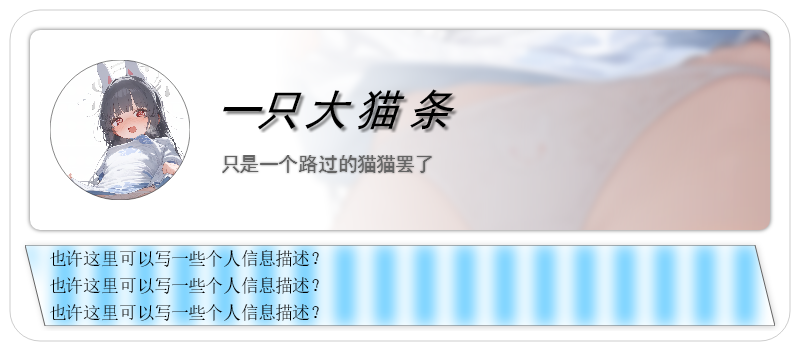
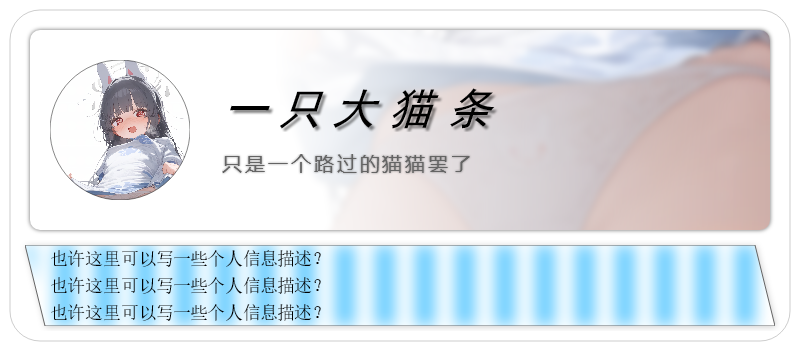
feat(WeightLayout): added a new layout: WeightLayout
WeightLayout can set the size of elements proportionally based on the weight attribute. This feature is currently used in linear layouts.

Changed region(s): [[0.0625, 0.7123, 0.4062, 0.9117], [0.2812, 0.2564, 0.625, 0.3704], [0.2812, 0.4274, 0.5938, 0.5128]]

diff --git a/src/main/kotlin/org/sereinfish/catcat/image/skiko/tools/build/extend/TextElementBuilder.kt b/src/main/kotlin/org/sereinfish/catcat/image/skiko/tools/build/extend/TextElementBuilder.kt
@@ -19,10 +19,11 @@ fun Layout.text(
     font: Font = Font(Typeface.makeFromName("黑体", FontStyle.NORMAL), 18f), // 字体,
     shadow: ShadowInfo? = null, // 文字阴影
     alignment: Alignment = Alignment.LEFT.and(Alignment.CENTER_VERTICAL), // 对齐方式
+    isTextCompact: Boolean = false,
     paint: (Paint.() -> Unit)? = null, // 画笔构建
     block: TextElement.() -> Unit = {}
 ): TextElement {
-    val textElement = TextElement(text, font = font, color = color, wordSpace = wordSpace.toFloat(), shadow = shadow, alignment = alignment, paintBuilder = paint)
+    val textElement = TextElement(text, font = font, color = color, wordSpace = wordSpace.toFloat(), shadow = shadow, alignment = alignment, paintBuilder = paint, isTextCompact = isTextCompact)
     modifier?.modifier(textElement)
     textElement.block()
 
@@ -40,10 +41,11 @@ fun Layout.text(
     wordSpace: Number = 0f, // 字间距
     shadow: ShadowInfo? = null, // 文字阴影
     alignment: Alignment = Alignment.LEFT.and(Alignment.CENTER_VERTICAL), // 对齐方式
+    isTextCompact: Boolean = false,
     paint: (Paint.() -> Unit)? = null, // 画笔构建
     block: TextElement.() -> Unit = {}
 ): TextElement {
-    return text(modifier, text, color, wordSpace, Font(typeface, fontSize.toFloat()), shadow, alignment, paint, block)
+    return text(modifier, text, color, wordSpace, Font(typeface, fontSize.toFloat()), shadow, alignment, isTextCompact, paint, block)
 }
 
 fun Layout.text(
@@ -56,8 +58,9 @@ fun Layout.text(
     wordSpace: Number = 0f, // 字间距
     shadow: ShadowInfo? = null, // 文字阴影
     alignment: Alignment = Alignment.LEFT.and(Alignment.CENTER_VERTICAL), // 对齐方式
+    isTextCompact: Boolean = false,
     paint: (Paint.() -> Unit)? = null, // 画笔构建
     block: TextElement.() -> Unit = {}
 ): TextElement {
-    return text(modifier, text, color, wordSpace, Font(Typeface.makeFromName(fontName, fontStyle), fontSize.toFloat()), shadow, alignment, paint, block)
+    return text(modifier, text, color, wordSpace, Font(Typeface.makeFromName(fontName, fontStyle), fontSize.toFloat()), shadow, alignment, isTextCompact, paint, block)
 }

diff --git a/src/main/kotlin/org/sereinfish/catcat/image/skiko/tools/element/WeightLayout.kt b/src/main/kotlin/org/sereinfish/catcat/image/skiko/tools/element/WeightLayout.kt
@@ -1,0 +1,59 @@
+package org.sereinfish.catcat.image.skiko.tools.element
+
+import org.sereinfish.catcat.image.skiko.tools.build.modifier.Modifier
+import org.sereinfish.catcat.image.skiko.tools.element.measure.ElementSizeMode
+import org.sereinfish.catcat.image.skiko.tools.element.measure.size.FloatRectSize
+import org.sereinfish.catcat.image.skiko.tools.element.measure.size.FloatSize
+import org.sereinfish.catcat.image.skiko.tools.utils.sumOf
+import org.sereinfish.catcat.image.skiko.tools.utils.sumSizeOf
+
+interface WeightLayout: Layout {
+    // 元素占比总和
+    var weightSum: Float
+        get() = attributes.getOrElse("weightSum") {
+            subElements.sumOf { it.weight }
+        }
+        set(value) = attributes.set("weightSum", value)
+
+    // 子元素能拥有的最大可分配空间
+    var weightMaxSize: FloatSize
+        get() = attributes.getOrElse("weightMaxSize") {
+            FloatSize()
+        }
+        set(value) = attributes.set("weightMaxSize", value)
+
+    /**
+     * 子元素的扩展元素
+     * 仅在子元素设置为最大大小时有效
+     * 该属性返回的值由布局提供
+     */
+    var Element.weight: Float
+        get() = this.attributes.getOrElse("weight") { 0f }
+        set(value) { this.attributes["weight"] = value }
+
+    fun <T: Element> Modifier<T>.weight(value: Number) = modifier {
+        this.weight = value.toFloat()
+    }
+
+
+    /**
+     * 参数更新
+     */
+    override fun updateElementInfo() {
+        val padding = attributes.getOrDefault("padding", FloatRectSize())
+
+        weightSum = subElements.sumOf { it.weight }
+        weightMaxSize = size().minus(padding.size()).minus(subElements.sumSizeOf {
+            val w = if (it.sizeMode.contain(ElementSizeMode.MaxWidth)) 0f else it.size.width
+            val h = if (it.sizeMode.contain(ElementSizeMode.MaxHeight)) 0f else it.size.height
+            FloatSize(w, h)
+        })
+    }
+
+    /**
+     * 计算子元素所能拥有的大小
+     */
+    fun subElementWeightSize(element: Element): FloatSize {
+        return (weightMaxSize.copy() * (element.weight / weightSum))
+    }
+}

diff --git a/src/main/kotlin/org/sereinfish/catcat/image/skiko/tools/element/elements/TextElement.kt b/src/main/kotlin/org/sereinfish/catcat/image/skiko/tools/element/elements/TextElement.kt
@@ -25,8 +25,8 @@ class TextElement(
     var color: Int = Color.BLACK, // 字体颜色
     var shadow: ShadowInfo? = null, // 文字阴影
     override var alignment: Alignment = Alignment.LEFT.and(Alignment.CENTER_VERTICAL), // 对齐方式
-    var paintBuilder: (Paint.() -> Unit)? = null // 画笔构建
-
+    var paintBuilder: (Paint.() -> Unit)? = null, // 画笔构建
+    var isTextCompact: Boolean = false // 紧凑绘制文本
 ) : AbstractElement(), AlignmentLayout {
 
     private val paint: Paint get() = buildPaint() // 获取实时构建的 Paint
@@ -56,9 +56,13 @@ class TextElement(
     private fun getTextDrawOffset(): FloatOffset {
         val rect = font.measureText(text, paint)
 
-        val offset = alignment(size.copy().minus(padding.size()), getTextDrawSize())
+        val offset = alignment(size.copy().minus(padding.size()), getTextDrawSize()).apply {
+            if (isTextCompact)
+                x -= rect.left
+            y -= rect.top
+        }
 
-        return FloatOffset(- rect.left, - rect.top).add(offset)
+        return offset
     }
 
     /**
@@ -78,19 +82,15 @@ class TextElement(
      */
     private fun getIndexCharSize(i: Int): Float {
         val rect = getWordDrawRectSize(text[i])
-        var w = rect.width
-        if (i > 0){
-            w += wordSpace + rect.left
-        }
 
-        return w
+        return rect.width + wordSpace + rect.left
     }
 
     /**
      * 获取单个字符大小
      */
     private fun getWordDrawRectSize(c: Char): Rect {
-        if (c == ' ') return font.measureText("n", paint)
+        if (c == ' ') return Rect.makeWH(font.metrics.maxCharWidth, font.metrics.height)
 
         return font.measureText("$c", paint)
     }

diff --git a/src/main/kotlin/org/sereinfish/catcat/image/skiko/tools/element/elements/layout/RowLayout.kt b/src/main/kotlin/org/sereinfish/catcat/image/skiko/tools/element/elements/layout/RowLayout.kt
@@ -2,6 +2,7 @@ package org.sereinfish.catcat.image.skiko.tools.element.elements.layout
 
 import org.sereinfish.catcat.image.skiko.tools.element.AbstractLayout
 import org.sereinfish.catcat.image.skiko.tools.element.Element
+import org.sereinfish.catcat.image.skiko.tools.element.WeightLayout
 import org.sereinfish.catcat.image.skiko.tools.element.measure.ElementSizeMode
 import org.sereinfish.catcat.image.skiko.tools.element.measure.alignment.Alignment
 import org.sereinfish.catcat.image.skiko.tools.element.measure.alignment.AlignmentLayout
@@ -12,7 +13,7 @@ import org.sereinfish.catcat.image.skiko.tools.utils.sumOrEnd
 
 class RowLayout(
     override var alignment: Alignment = Alignment.LEFT
-): AbstractLayout(), AlignmentLayout {
+): AbstractLayout(), AlignmentLayout, WeightLayout {
 
     override fun autoSize(): FloatSize {
         return FloatSize().apply {
@@ -22,6 +23,11 @@ class RowLayout(
                 height = maxOf(subSize.height, height)
             }
         }.add(padding.size())
+    }
+
+    override fun updateElementInfo() {
+        super<WeightLayout>.updateElementInfo()
+        super<AbstractLayout>.updateElementInfo()
     }
 
     override fun subElementOffset(element: Element): FloatOffset {
@@ -61,9 +67,12 @@ class RowLayout(
         if (sizeMode.contain(ElementSizeMode.AutoWidth))
             size.width = 0f
 
-
         if (sizeMode.contain(ElementSizeMode.AutoHeight))
             size.height = this.size.height - padding.size().height
+
+        if (element.sizeMode.contain(ElementSizeMode.MaxWidth) && weightSum != 0f){
+            size.width = subElementWeightSize(element).width
+        }
 
         return size.nonNegativeValue()
     }

diff --git a/src/main/kotlin/org/sereinfish/catcat/image/skiko/tools/demo/demo4/Demo4.kt b/src/main/kotlin/org/sereinfish/catcat/image/skiko/tools/demo/demo4/Demo4.kt
@@ -1,0 +1,48 @@
+package org.sereinfish.catcat.image.skiko.tools.demo.demo4
+
+import org.jetbrains.skia.Color
+import org.sereinfish.catcat.image.skiko.tools.build.buildImageColumLayout
+import org.sereinfish.catcat.image.skiko.tools.build.extend.*
+import org.sereinfish.catcat.image.skiko.tools.build.modifier.Modifier
+import org.sereinfish.catcat.image.skiko.tools.element.elements.RectElement
+import org.sereinfish.catcat.image.skiko.tools.element.elements.layout.ColumLayout
+import org.sereinfish.catcat.image.skiko.tools.element.elements.layout.RowLayout
+import org.sereinfish.catcat.image.skiko.tools.utils.random
+import org.sereinfish.catcat.image.skiko.tools.utils.save
+
+/**
+ * 比例布局
+ */
+fun main() {
+    buildImageColumLayout(
+        modifier = Modifier<ColumLayout>()
+            .size(1000, 1000)
+            .padding(50)
+            .background(Color.WHITE)
+    ) {
+
+        row(
+            Modifier<RowLayout>()
+                .maxWidth()
+                .height(200)
+        ) {
+            repeat(5){
+                rect(
+                    Modifier<RectElement>()
+                        .weight(1)
+                        .maxSize(),
+                    color = Color.random()
+                )
+            }
+        }
+
+        repeat(5){
+            rect(
+                Modifier<RectElement>()
+                    .weight(1)
+                    .maxSize(),
+                color = Color.random()
+            )
+        }
+    }.save("./src/main/kotlin/org/sereinfish/catcat/image/skiko/tools/demo/demo4/output")
+}

diff --git a/src/main/kotlin/org/sereinfish/catcat/image/skiko/tools/element/elements/layout/ColumLayout.kt b/src/main/kotlin/org/sereinfish/catcat/image/skiko/tools/element/elements/layout/ColumLayout.kt
@@ -2,6 +2,7 @@ package org.sereinfish.catcat.image.skiko.tools.element.elements.layout
 
 import org.sereinfish.catcat.image.skiko.tools.element.AbstractLayout
 import org.sereinfish.catcat.image.skiko.tools.element.Element
+import org.sereinfish.catcat.image.skiko.tools.element.WeightLayout
 import org.sereinfish.catcat.image.skiko.tools.element.measure.ElementSizeMode
 import org.sereinfish.catcat.image.skiko.tools.element.measure.alignment.Alignment
 import org.sereinfish.catcat.image.skiko.tools.element.measure.alignment.AlignmentLayout
@@ -15,7 +16,7 @@ import org.sereinfish.catcat.image.skiko.tools.utils.forEachOrEnd
  */
 class ColumLayout(
     override var alignment: Alignment = Alignment.LEFT.and(Alignment.TOP),
-): AbstractLayout(), AlignmentLayout {
+): AbstractLayout(), AlignmentLayout, WeightLayout {
 
     /**
      * 自动大小
@@ -41,6 +42,11 @@ class ColumLayout(
         }
 
         return y
+    }
+
+    override fun updateElementInfo() {
+        super<WeightLayout>.updateElementInfo()
+        super<AbstractLayout>.updateElementInfo()
     }
 
     /**
@@ -79,10 +85,13 @@ class ColumLayout(
             size.minus(it.size.copy(width = 0f))
         }
 
-
         // 当布局为自动时，不支持最大化子元素
         if (sizeMode.contain(ElementSizeMode.AutoHeight))
             size.height = 0f
+
+        if (element.sizeMode.contain(ElementSizeMode.MaxHeight) && weightSum != 0f){
+            size.height = subElementWeightSize(element).height
+        }
 
         return size.nonNegativeValue()
     }

diff --git a/src/main/kotlin/org/sereinfish/catcat/image/skiko/tools/demo/demo2/Demo2.kt b/src/main/kotlin/org/sereinfish/catcat/image/skiko/tools/demo/demo2/Demo2.kt
@@ -189,7 +189,7 @@ private fun Layout.userNameInfo(
         text = name,
         fontStyle = FontStyle.ITALIC,
         fontSize = 43,
-        wordSpace = 2,
+        wordSpace = 8,
         shadow = ShadowInfo(3, 1, Color.BLACK.colorCopy(a = 120))
     )
     colum(modifier = Modifier<ColumLayout>().size(20))
@@ -197,7 +197,9 @@ private fun Layout.userNameInfo(
         modifier = Modifier<TextElement>()
             .padding(2),
         text = desc,
+        typeface = Typeface.makeFromName("微软雅黑", FontStyle.NORMAL),
         fontSize = 20,
+        wordSpace = 3,
         color = Color.makeRGB(100, 100, 100),
         shadow = ShadowInfo(0, 1, Color.BLACK.colorCopy(a = 120))
     )

diff --git a/src/main/kotlin/org/sereinfish/catcat/image/skiko/tools/draw/effect/ElementShapeEffect.kt b/src/main/kotlin/org/sereinfish/catcat/image/skiko/tools/draw/effect/ElementShapeEffect.kt
@@ -1,15 +1,12 @@
 package org.sereinfish.catcat.image.skiko.tools.draw.effect
 
+import org.jetbrains.skia.*
 import org.sereinfish.catcat.image.skiko.tools.draw.utils.buildDraw
 import org.sereinfish.catcat.image.skiko.tools.element.AbstractElement
 import org.sereinfish.catcat.image.skiko.tools.element.measure.ShadowInfo
-import org.jetbrains.skia.*
-import org.sereinfish.catcat.image.skiko.tools.A
-import org.sereinfish.catcat.image.skiko.tools.element.Element
 import org.sereinfish.catcat.image.skiko.tools.element.measure.size.FloatRectSize
 import org.sereinfish.catcat.image.skiko.tools.utils.paint
 import org.sereinfish.catcat.image.skiko.tools.utils.saveBlock
-
 
 
 /**

diff --git a/src/main/kotlin/org/sereinfish/catcat/image/skiko/tools/Main.kt b/src/main/kotlin/org/sereinfish/catcat/image/skiko/tools/Main.kt
@@ -1,18 +1,13 @@
 package org.sereinfish.catcat.image.skiko.tools
 
-import org.sereinfish.catcat.image.skiko.tools.element.measure.offset.FloatOffset
-import org.sereinfish.catcat.image.skiko.tools.utils.offset
+import org.sereinfish.catcat.image.skiko.tools.build.buildImageColumLayout
+import org.sereinfish.catcat.image.skiko.tools.build.extend.rect
 
 
-class A {
-    val p: A get() = this
-
-    operator fun get(x: Number, y: Number): FloatOffset {
-        return offset(x, y)
-    }
-}
 fun main() {
-    val func: A.() -> FloatOffset = {
-        p[1, 2]
+    buildImageColumLayout {
+        rect {
+
+        }
     }
 }

diff --git a/src/main/kotlin/org/sereinfish/catcat/image/skiko/tools/context/Context.kt b/src/main/kotlin/org/sereinfish/catcat/image/skiko/tools/context/Context.kt
@@ -19,6 +19,14 @@ open class Context(
         context[key] = value
     }
 
+    inline fun <reified T> getOrElse(key: String, default: () -> T): T = (get(key) as? T) ?: run {
+        default().also {
+            set(key, it)
+        }
+    }
+
+    inline fun <reified T> getOrDefault(key: String, default: T): T = (get(key) as? T) ?: default
+
     inline fun <reified T> value() = ContextProperty<T>(this, T::class.java)
     inline fun <reified T> valueOrNull() = ContextPropertyOrNull<T>(this, T::class.java)
     inline fun <reified T> valueOrDefault(default: T) = ContextPropertyOrDefault(this, default, T::class.java)

diff --git a/src/main/kotlin/org/sereinfish/catcat/image/skiko/tools/utils/ColorUtils.kt b/src/main/kotlin/org/sereinfish/catcat/image/skiko/tools/utils/ColorUtils.kt
@@ -1,6 +1,7 @@
 package org.sereinfish.catcat.image.skiko.tools.utils
 
 import org.jetbrains.skia.Color
+import kotlin.random.Random
 
 fun Int.colorCopy(r: Int? = null, g: Int? = null, b: Int? = null, a: Int? = null): Int {
     val nr = r ?: Color.getR(this)
@@ -9,4 +10,12 @@ fun Int.colorCopy(r: Int? = null, g: Int? = null, b: Int? = null, a: Int? = null
     val na = a ?: Color.getA(this)
 
     return Color.makeARGB(na, nr, ng, nb)
+}
+
+fun Color.random(): Int {
+    return makeRGB(
+        Random.nextInt(0, 256),
+        Random.nextInt(0, 256),
+        Random.nextInt(0, 256)
+    )
 }

diff --git a/src/main/kotlin/org/sereinfish/catcat/image/skiko/tools/build/extend/ElementModifier.kt b/src/main/kotlin/org/sereinfish/catcat/image/skiko/tools/build/extend/ElementModifier.kt
@@ -11,7 +11,6 @@ import org.sereinfish.catcat.image.skiko.tools.element.measure.CropMode
 import org.sereinfish.catcat.image.skiko.tools.element.measure.ElementSizeMode
 import org.sereinfish.catcat.image.skiko.tools.element.measure.size.FloatRectSize
 import org.jetbrains.skia.*
-import org.sereinfish.catcat.image.skiko.tools.A
 import org.sereinfish.catcat.image.skiko.tools.draw.effect.arcShape
 import org.sereinfish.catcat.image.skiko.tools.draw.effect.circularShape
 import org.sereinfish.catcat.image.skiko.tools.draw.effect.rRectShape
